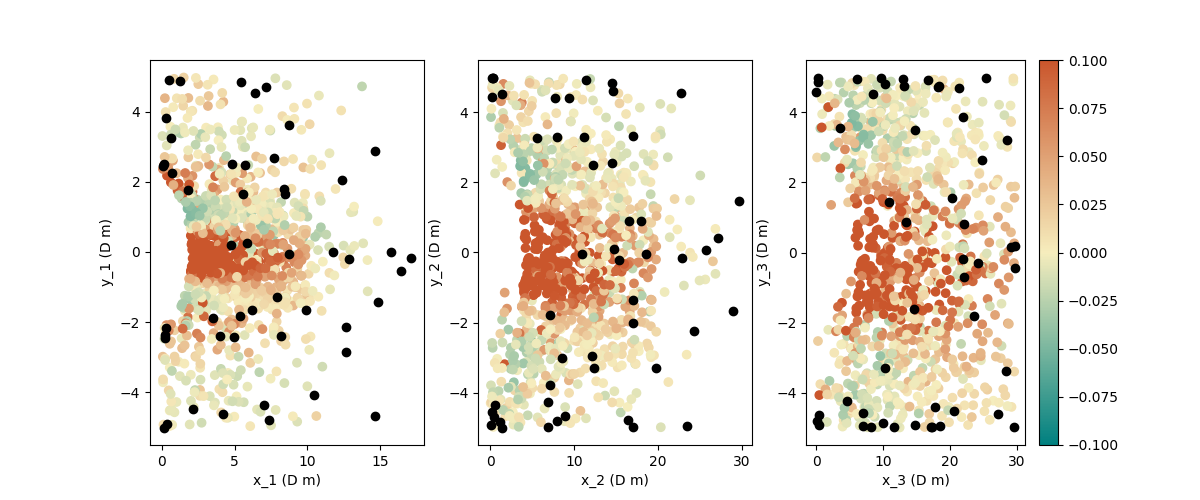
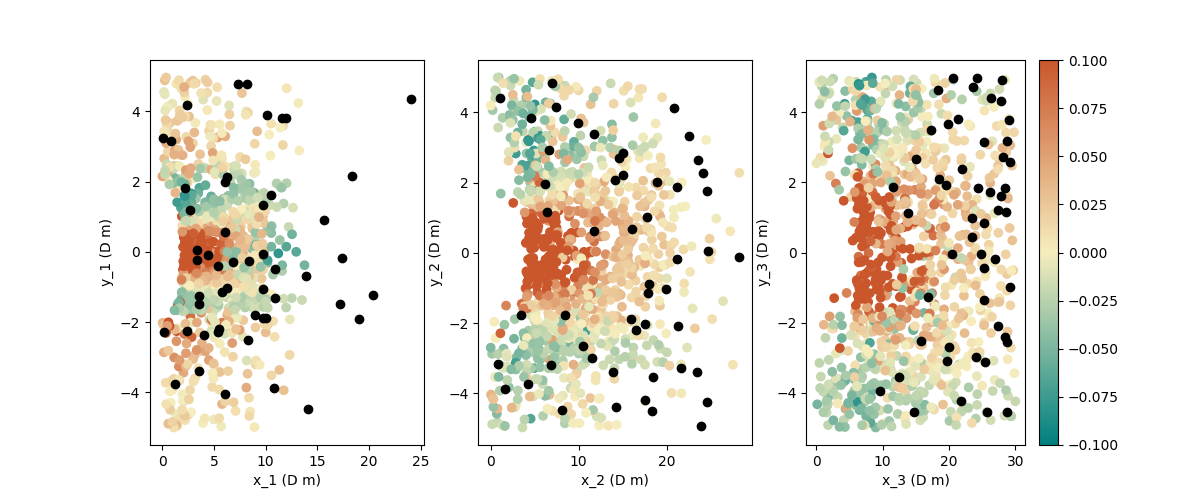
Plot errors and training points

diff --git a/analysis/gp_diagnosis.py b/analysis/gp_diagnosis.py
@@ -5,7 +5,7 @@ import numpy as np
 import matplotlib.pyplot as plt
 from sklearn.preprocessing import StandardScaler
 from sklearn.gaussian_process import GaussianProcessRegressor
-from sklearn.gaussian_process.kernels import RBF, WhiteKernel
+from sklearn.gaussian_process.kernels import RBF, WhiteKernel, Matern
 from sklearn.metrics import mean_squared_error
 from sklearn.pipeline import Pipeline
 from palettable.cartocolors.diverging import Geyser_3
@@ -16,7 +16,7 @@ from regular_array_sampling.functions import regular_array_monte_carlo
 
 noise = 0.01
 # create array of sampled regular array layouts
-cand_points = regular_array_monte_carlo(50000)
+cand_points = regular_array_monte_carlo(10000)
 # create testing points
 X_test, y_test = create_testing_points_regular(noise)
 
@@ -27,7 +27,7 @@ X_train, y_train, n_train = \
     create_training_points_regular(n_target, noise, cand_points)
 
 # fit GP regression and calculate rmse
-kernel = 1.0 ** 2 * RBF(length_scale=[1., 1., 1., 1., 1., 1.]) \
+kernel = 1.0 ** 2 * Matern(length_scale=[1., 1., 1., 1., 1., 1.]) \
     + WhiteKernel(noise_level=1e-5, noise_level_bounds=[1e-10, 1])
 pipe = Pipeline([('scaler', StandardScaler()),
                 ('gp', GaussianProcessRegressor(kernel=kernel,
@@ -41,7 +41,7 @@ print(n_train, np.sqrt(mse))
 default_mse = mean_squared_error(y_test, np.zeros(len(y_test)))
 print(np.sqrt(default_mse))
 
-max_error = np.max(np.abs((y_predict - y_test)/(y_test+0.88)))
+max_error = np.max(np.abs((y_predict - y_test)))
 
 fig = plt.figure(figsize=(12.0, 5.0))
 turbine1 = fig.add_subplot(1, 3, 1)
@@ -55,13 +55,13 @@ turbine3.set_xlabel('x_3 (D m)')
 turbine3.set_ylabel('y_3 (D m)')
 
 x = turbine1.scatter(X_test[:, 0], X_test[:, 1],
-                 c=(y_predict - y_test)/(y_test+0.88),cmap=Geyser_3.mpl_colormap, vmin=-0.1, vmax=0.1)
+                 c=(y_predict - y_test),cmap=Geyser_3.mpl_colormap, vmin=-max_error, vmax=max_error)
 turbine1.scatter(X_train[:, 0], X_train[:, 1], c='black')
 turbine2.scatter(X_test[:, 2], X_test[:, 3],
-                 c=(y_predict - y_test)/(y_test+0.88),cmap=Geyser_3.mpl_colormap,  vmin=-0.1, vmax=0.1)
+                 c=(y_predict - y_test),cmap=Geyser_3.mpl_colormap, vmin=-max_error, vmax=max_error)
 turbine2.scatter(X_train[:, 2], X_train[:, 3], c='black')
 turbine3.scatter(X_test[:, 4], X_test[:, 5],
-                 c=(y_predict - y_test)/(y_test+0.88),cmap=Geyser_3.mpl_colormap,  vmin=-0.1, vmax=0.1)
+                 c=(y_predict - y_test),cmap=Geyser_3.mpl_colormap, vmin=-max_error, vmax=max_error)
 turbine3.scatter(X_train[:, 4], X_train[:, 5], c='black')
 plt.colorbar(x)
-plt.savefig('analysis/GP_machine_learning_plots/GP_error_regular_training_4Dmaximin_max_change_halved.png')
+plt.savefig('analysis/GP_machine_learning_plots/GP_error_regular_training_6Dmaximin_max_change_halved.png')
